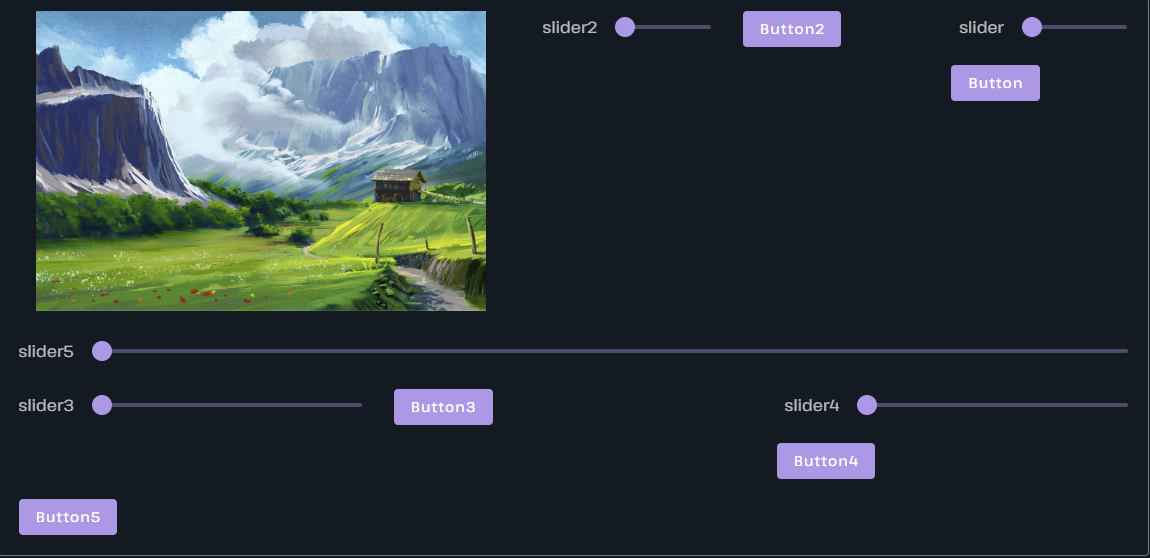
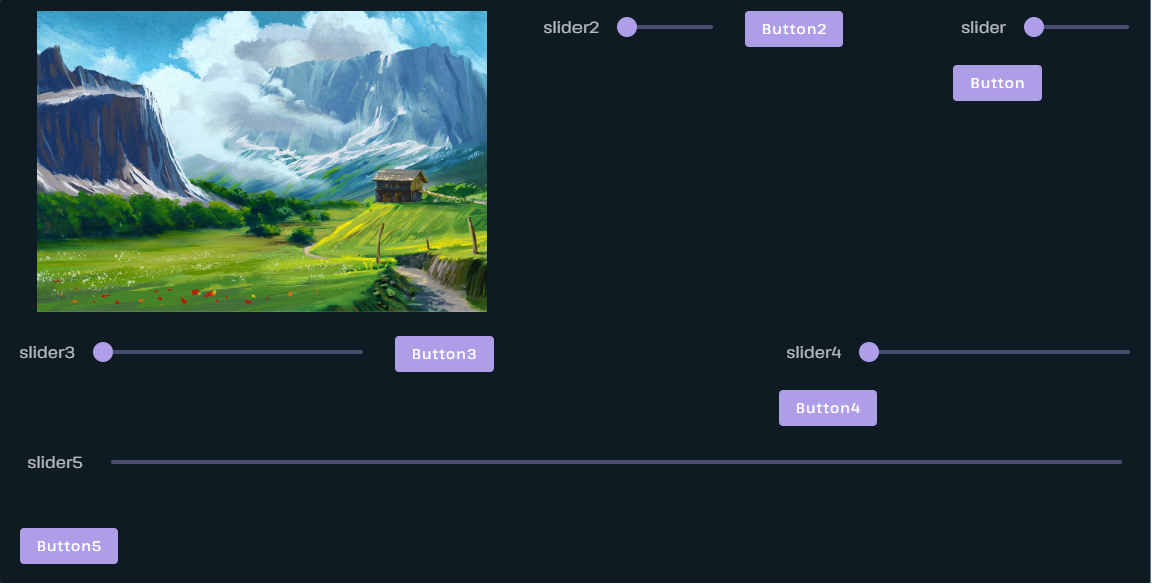
Layout simplification

diff --git a/zt_frontend/src/types/response.d.ts b/zt_frontend/src/types/response.d.ts
@@ -28,10 +28,6 @@ export type Components1 = (string | Column)[];
  * List of rows in this layout
  */
 export type Rows = Row[];
-/**
- * List of columns in this layout
- */
-export type Columns = Column[];
 export type Output = string;
 export type Cells = CellResponse[];
 export type Refresh = boolean;
@@ -55,7 +51,6 @@ export interface ZTComponent {
 }
 export interface Layout {
   rows?: Rows;
-  columns?: Columns;
   [k: string]: unknown;
 }
 export interface Row {

diff --git a/zt_frontend/src/types/notebook.d.ts b/zt_frontend/src/types/notebook.d.ts
@@ -31,10 +31,6 @@ export type Components = (string | Column)[];
  */
 export type Rows = Row[];
 /**
- * List of columns in this layout
- */
-export type Columns = Column[];
-/**
  * Unique id for a component
  */
 export type Id1 = string;
@@ -74,7 +70,6 @@ export interface CodeCell {
 }
 export interface Layout {
   rows?: Rows;
-  columns?: Columns;
   [k: string]: unknown;
 }
 export interface Row {

diff --git a/zt_frontend/src/types/notebook_response.d.ts b/zt_frontend/src/types/notebook_response.d.ts
@@ -31,10 +31,6 @@ export type Components = (string | Column)[];
  */
 export type Rows = Row[];
 /**
- * List of columns in this layout
- */
-export type Columns = Column[];
-/**
  * Unique id for a component
  */
 export type Id1 = string;
@@ -80,7 +76,6 @@ export interface CodeCell {
 }
 export interface Layout {
   rows?: Rows;
-  columns?: Columns;
   [k: string]: unknown;
 }
 export interface Row {

diff --git a/zt_frontend/src/types/layout.d.ts b/zt_frontend/src/types/layout.d.ts
@@ -18,14 +18,9 @@ export type Components = (string | Column)[];
  * List of rows in this layout
  */
 export type Rows = Row[];
-/**
- * List of columns in this layout
- */
-export type Columns = Column[];
 
 export interface Layout {
   rows?: Rows;
-  columns?: Columns;
   [k: string]: unknown;
 }
 export interface Row {

diff --git a/zt_backend/models/components/layout.py b/zt_backend/models/components/layout.py
@@ -7,19 +7,33 @@ Row = ForwardRef('Row')
 Column = ForwardRef('Column')
 
 class Column(BaseModel):
-    components: List[Union[str,"Row"]] = Field([], description="List of component IDs that belong to this column")
-    width: Union[int,bool] = Field(False)
+    """A Column must be a subcomponent of a Row. It can contain both individual components and rows"""
+    components: List[Union[str,"Row"]] = Field([], description="List of component IDs and rows that belong to this column, rendered in order")
+    width: Union[int,bool] = Field(False, description="Width of the column. It can be a number 1-12 and by default is automatically calculated")
+
+    def __init__(__pydantic_self__, *args, **data):
+        if args:
+            data['components'] = args[0]
+            if len(args) > 1:
+                data['width'] = args[1]
+        super().__init__(**data)
     
-
 class Row(BaseModel):
-    components: List[Union[str,Column]] = Field([], description="List of columns that belong to this row")
+    """Rows can contain both individual components and columns. They are the top level components of a layout and can be subcomponents of columns"""
+    components: List[Union[str,Column]] = Field([], description="List of component IDs and columns that belong to this row, rendered in order")
 
+    def __init__(self, *args, **data):
+        if args:
+            data['components'] = args[0]
+        super().__init__(**data)
 
 class Layout(BaseModel):
+    """Layout is an object that contains the list of rows to be rendered"""
     rows: List[Row] = Field([], description="List of rows in this layout")
-    columns: List[Column] = Field([], description="List of columns in this layout")
 
-    def __init__(self, **data):
+    def __init__(self, *args, **data):
+        if args:
+            data['rows'] = args[0]
         super().__init__(**data)
         execution_state = UserContext.get_state()
         if execution_state and execution_state.context_globals['exec_mode']:

diff --git a/docs/layout.rst b/docs/layout.rst
@@ -8,7 +8,6 @@ By default, each component is rendered in its own row, taking up the full width 
 Specifying Rows, Cols and Nested Layouts
 -----------------------------------------
 
-
 Zero-True allows you to create complicated nested layouts. These are the docs for columns, rows, and the layout:
 
 .. autopydantic_model:: zero_true.Layout 
@@ -21,16 +20,15 @@ Zero-True allows you to create complicated nested layouts. These are the docs fo
     :model-show-field-summary: false
     :model-show-validator-summary: false
 
-Note that Row and Column components can only be used as part of a layout or another row/column or they will not be rendered. 
+Note that that any Rows and Columns defined must be placed inside of a Layout or will not be rendered.
 
 Mixed Layouts
 -------------
 
 If some components are placed in a layout and others are not, the layout will accommodate both:
 
-1. Rows will be rendered first in the order they are added to the rows list of the layout.
-2. Columns will be rendered next in the order they are added to the columns list of the layout. Each column not placed inside of a row will be placed in its own row and take up the available width.
-3. All other components not in a row or column will then be rendered in the order they are defined in code and take up the full width available, each in their own row.
+1. Rows defined in the layout will be rendered in the order they are in the list and their subcomponents and columns will be rendered in the order they are defined in the list.
+2. All other components not in a row or column will then be rendered in the order they are defined in code and take up the full width available, each in their own row.
 
 Example
 -------
@@ -42,26 +40,24 @@ Here is an example with actual code that shows how the layout works:
     import zero_true as zt
 
     image = zt.Image(id='image', src='https://www.escapemotions.com/images/mainpage/images/blog_posts_bg/landing-page_blog_93303113643.jpg', width=500, height=300)
-    
     slider = zt.Slider(id='slider', label='slider')
     slider2 = zt.Slider(id='slider2', label='slider2')
     slider3 = zt.Slider(id='slider3', label='slider3')
     slider4 = zt.Slider(id='slider4', label='slider4')
     slider5 = zt.Slider(id='slider5', label='slider5')
-    
     button = zt.Button(id='button', text='button')
     button2 = zt.Button(id='button2', text='button2')
     button3 = zt.Button(id='button3', text='button3')
     button4 = zt.Button(id='button4', text='button4')
     button5 = zt.Button(id='button5', text='button5')
 
-    col = zt.Column(components=['slider', 'button'])
-    row = zt.Row(components=['image', 'slider2', 'button2', col])
-    col2 = zt.Column(components=['slider4', 'button4'])
-    row2 = zt.Row(components=['slider3', 'button3', col2])
-    col3 = zt.Column(components=['slider5', row2])
+    col = zt.Column([slider.id, button.id])
+    col2 = zt.Column([slider4.id, button4.id])
+    row2 = zt.Row([slider3.id, button3.id, col2])
 
-    zt.Layout(rows=[row], columns=[col3])
+    row = zt.Row([image.id, slider2.id, button2.id, col])
+
+    zt.Layout([row, row2])
 
 And this is the resulting layout:
 
